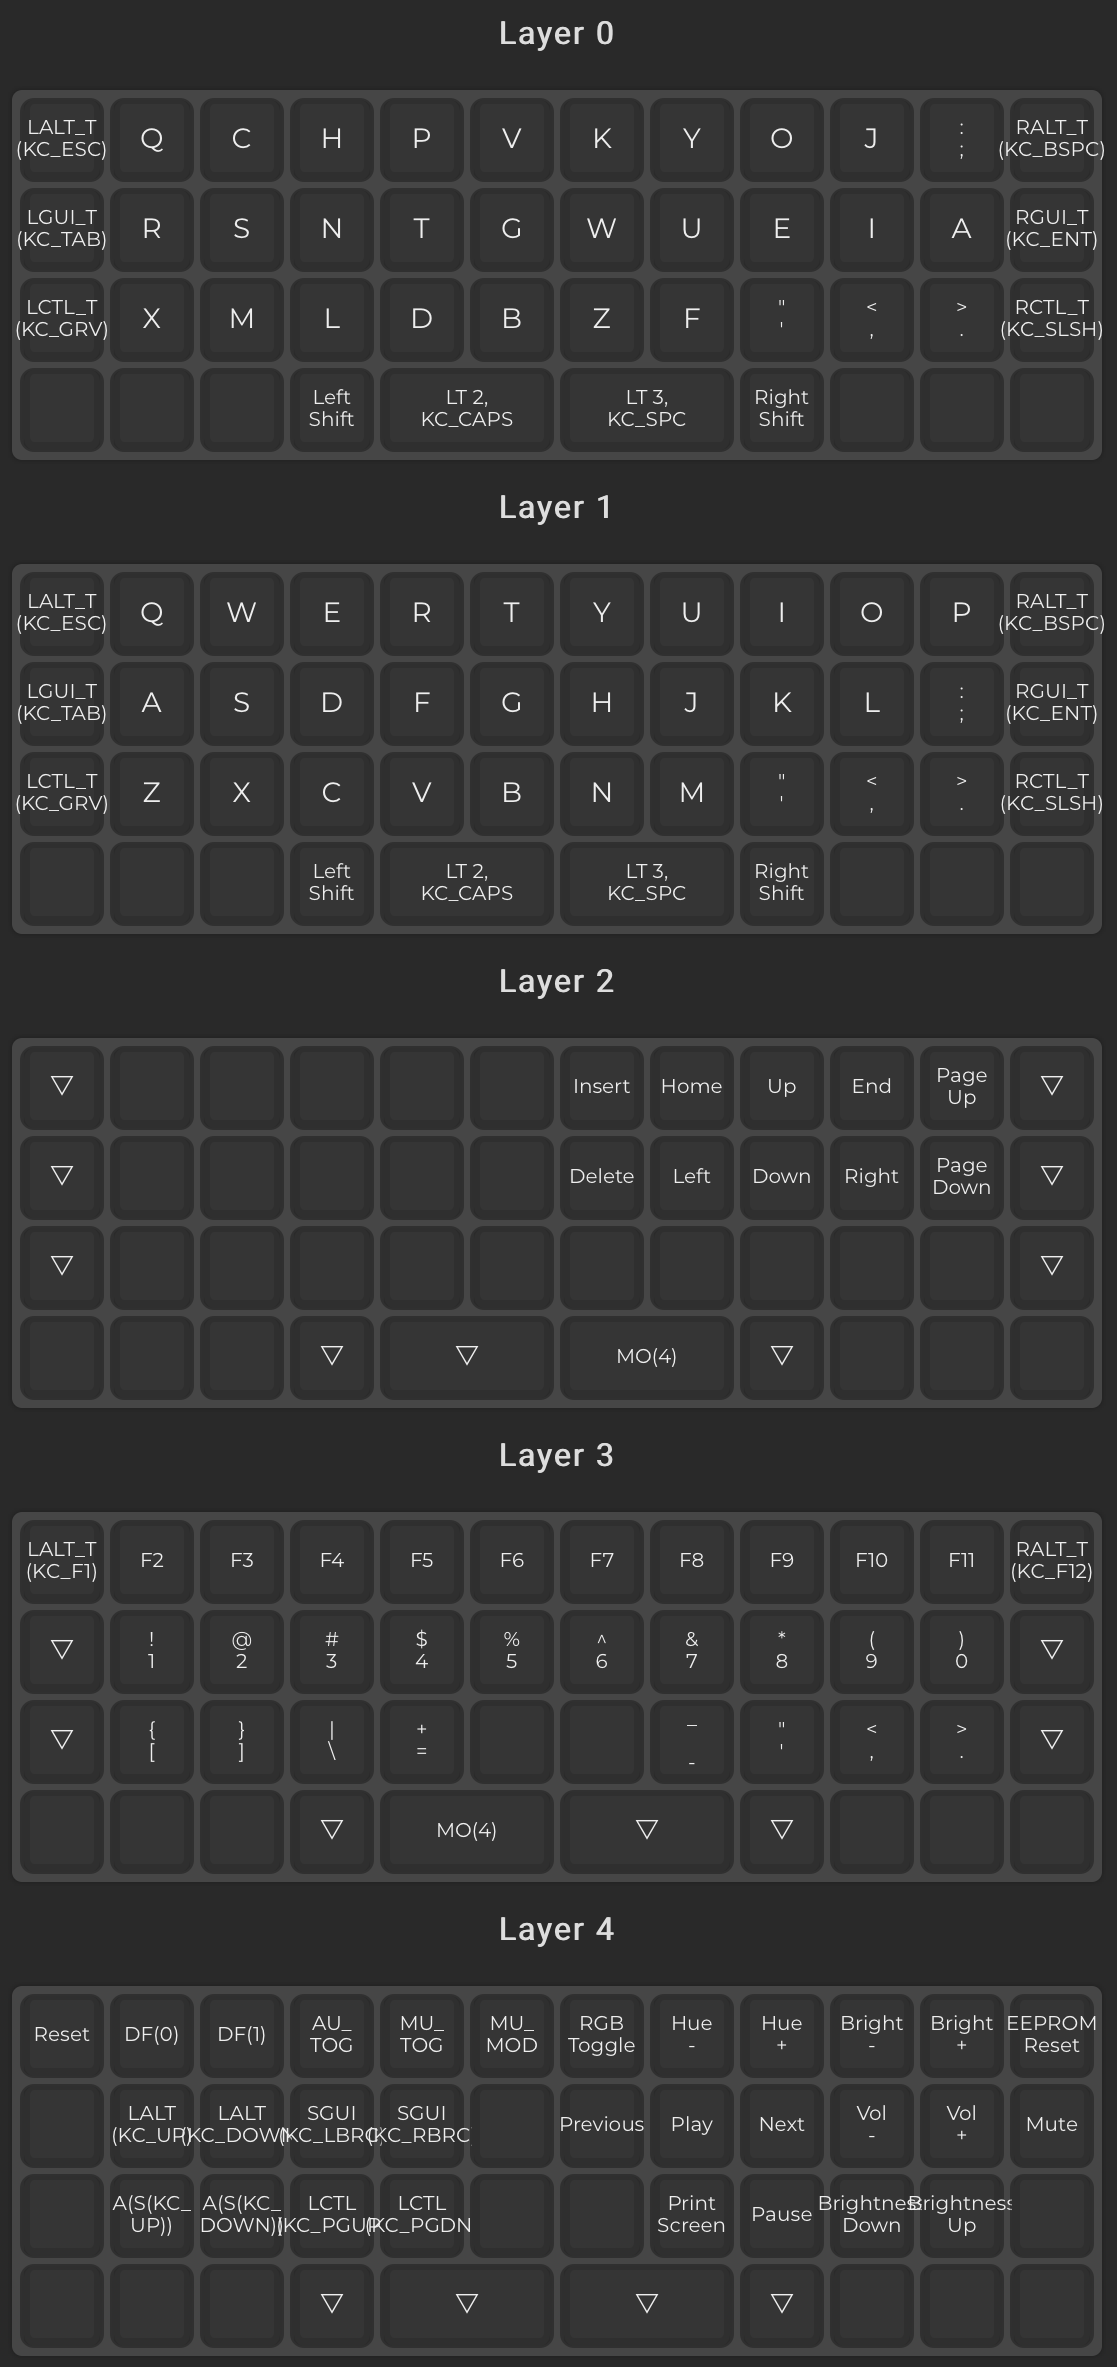
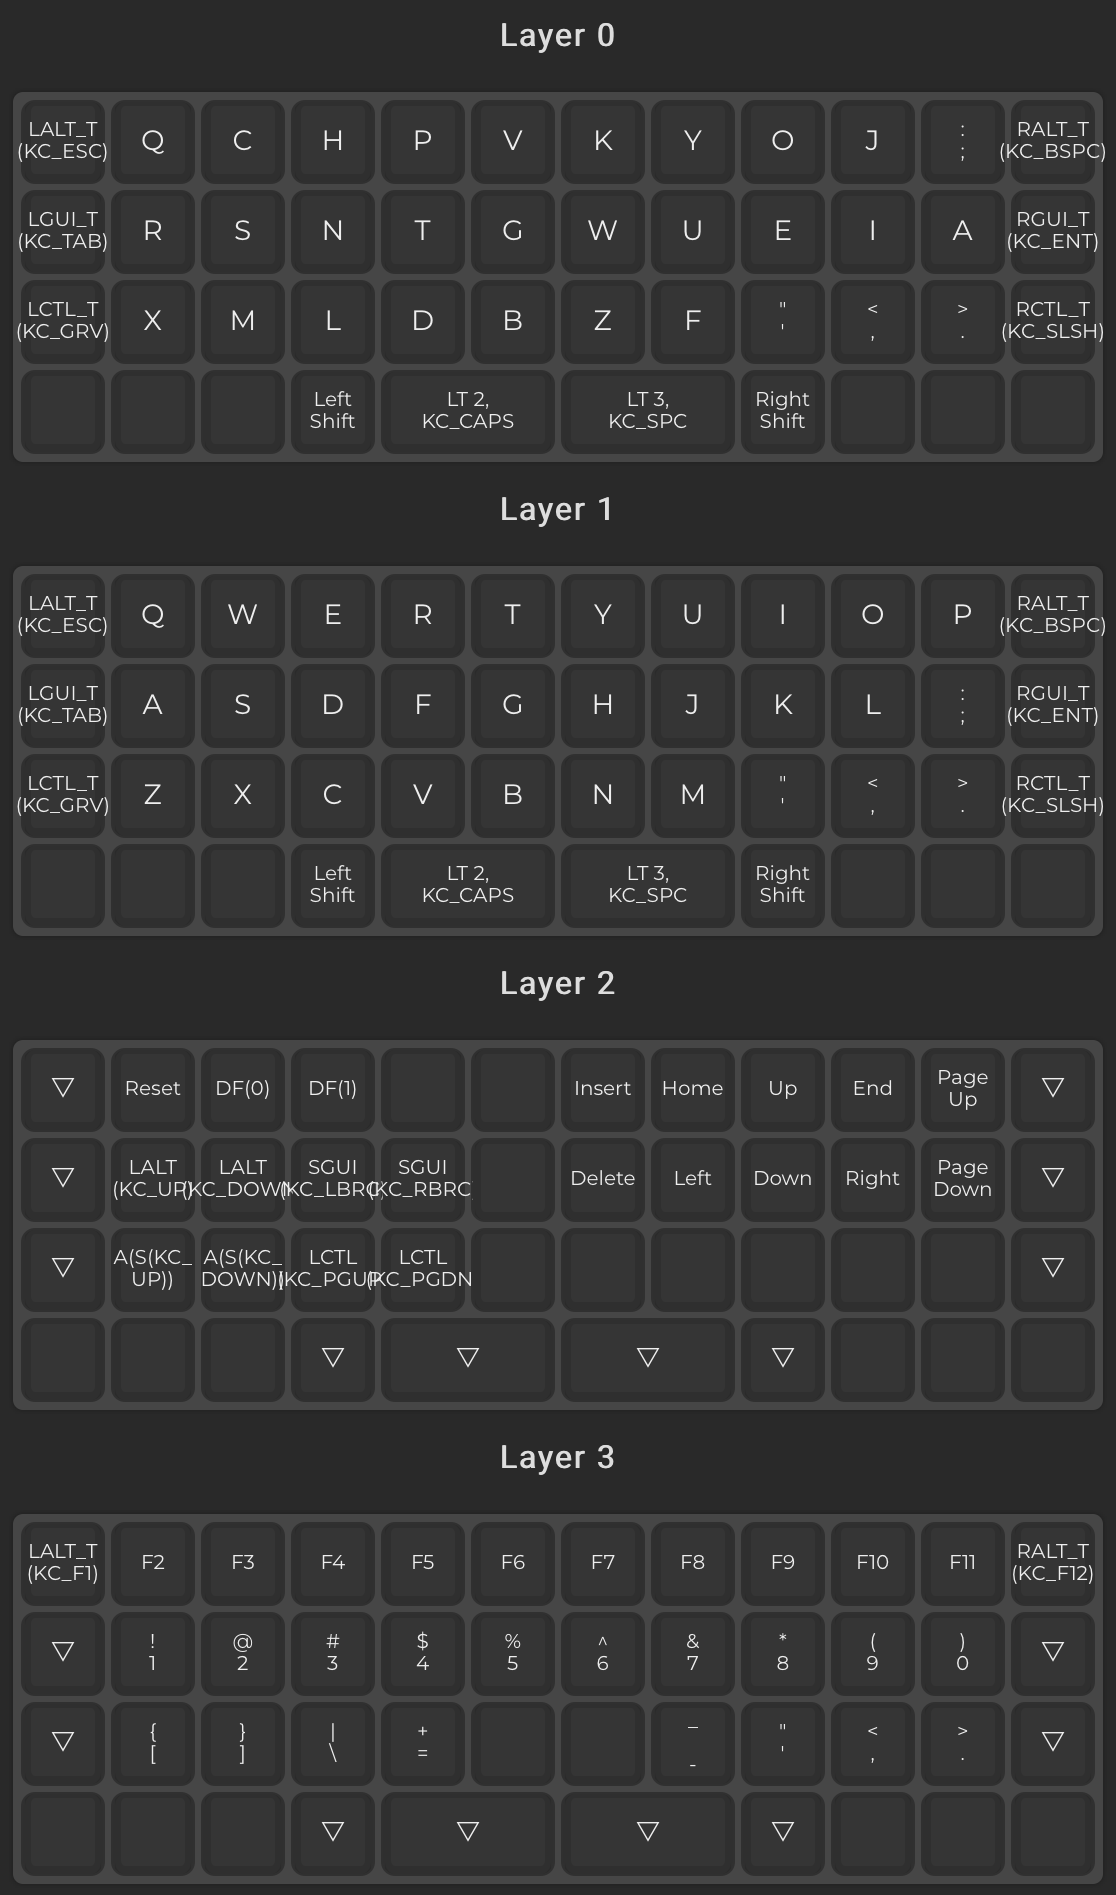
Collapse layers more

diff --git a/keymap.c b/keymap.c
@@ -9,7 +9,6 @@
 const uint16_t PROGMEM keymaps[][MATRIX_ROWS][MATRIX_COLS] = {
 	[0] = LAYOUT_planck_2x2u(LALT_T(KC_ESC), KC_Q, KC_C, KC_H, KC_P, KC_V, KC_K, KC_Y, KC_O, KC_J, KC_SCLN, RALT_T(KC_BSPC), LGUI_T(KC_TAB), KC_R, KC_S, KC_N, KC_T, KC_G, KC_W, KC_U, KC_E, KC_I, KC_A, RGUI_T(KC_ENT), LCTL_T(KC_GRV), KC_X, KC_M, KC_L, KC_D, KC_B, KC_Z, KC_F, KC_QUOT, KC_COMM, KC_DOT, RCTL_T(KC_SLSH), KC_NO, KC_NO, KC_NO, KC_LSFT, LT(2,KC_CAPS), LT(3,KC_SPC), KC_RSFT, KC_NO, KC_NO, KC_NO),
 	[1] = LAYOUT_planck_2x2u(LALT_T(KC_ESC), KC_Q, KC_W, KC_E, KC_R, KC_T, KC_Y, KC_U, KC_I, KC_O, KC_P, RALT_T(KC_BSPC), LGUI_T(KC_TAB), KC_A, KC_S, KC_D, KC_F, KC_G, KC_H, KC_J, KC_K, KC_L, KC_SCLN, RGUI_T(KC_ENT), LCTL_T(KC_GRV), KC_Z, KC_X, KC_C, KC_V, KC_B, KC_N, KC_M, KC_QUOT, KC_COMM, KC_DOT, RCTL_T(KC_SLSH), KC_NO, KC_NO, KC_NO, KC_LSFT, LT(2,KC_CAPS), LT(3,KC_SPC), KC_RSFT, KC_NO, KC_NO, KC_NO),
-	[2] = LAYOUT_planck_2x2u(KC_TRNS, KC_NO, KC_NO, KC_NO, KC_NO, KC_NO, KC_INS, KC_HOME, KC_UP, KC_END, KC_PGUP, KC_TRNS, KC_TRNS, KC_NO, KC_NO, KC_NO, KC_NO, KC_NO, KC_DEL, KC_LEFT, KC_DOWN, KC_RGHT, KC_PGDN, KC_TRNS, KC_TRNS, KC_NO, KC_NO, KC_NO, KC_NO, KC_NO, KC_NO, KC_NO, KC_NO, KC_NO, KC_NO, KC_TRNS, KC_NO, KC_NO, KC_NO, KC_TRNS, KC_TRNS, MO(4), KC_TRNS, KC_NO, KC_NO, KC_NO),
-	[3] = LAYOUT_planck_2x2u(LALT_T(KC_F1), KC_F2, KC_F3, KC_F4, KC_F5, KC_F6, KC_F7, KC_F8, KC_F9, KC_F10, KC_F11, RALT_T(KC_F12), KC_TRNS, KC_1, KC_2, KC_3, KC_4, KC_5, KC_6, KC_7, KC_8, KC_9, KC_0, KC_TRNS, KC_TRNS, KC_LBRC, KC_RBRC, KC_BSLS, KC_EQL, KC_NO, KC_NO, KC_MINS, KC_QUOT, KC_COMM, KC_DOT, KC_TRNS, KC_NO, KC_NO, KC_NO, KC_TRNS, MO(4), KC_TRNS, KC_TRNS, KC_NO, KC_NO, KC_NO),
-	[4] = LAYOUT_planck_2x2u(RESET, DF(0), DF(1), AU_TOG, MU_TOG, MU_MOD, RGB_TOG, RGB_HUD, RGB_HUI, RGB_VAD, RGB_VAI, EEP_RST, KC_NO, LALT(KC_UP), LALT(KC_DOWN), SGUI(KC_LBRC), SGUI(KC_RBRC), KC_NO, KC_MPRV, KC_MPLY, KC_MNXT, KC_VOLD, KC_VOLU, KC_MUTE, KC_NO, A(S(KC_UP)), A(S(KC_DOWN)), LCTL(KC_PGUP), LCTL(KC_PGDN), KC_NO, KC_NO, KC_PSCR, KC_PAUS, KC_BRID, KC_BRIU, KC_NO, KC_NO, KC_NO, KC_NO, KC_TRNS, KC_TRNS, KC_TRNS, KC_TRNS, KC_NO, KC_NO, KC_NO)
+	[2] = LAYOUT_planck_2x2u(KC_TRNS, RESET, DF(0), DF(1), KC_NO, KC_NO, KC_INS, KC_HOME, KC_UP, KC_END, KC_PGUP, KC_TRNS, KC_TRNS, LALT(KC_UP), LALT(KC_DOWN), SGUI(KC_LBRC), SGUI(KC_RBRC), KC_NO, KC_DEL, KC_LEFT, KC_DOWN, KC_RGHT, KC_PGDN, KC_TRNS, KC_TRNS, A(S(KC_UP)), A(S(KC_DOWN)), LCTL(KC_PGUP), LCTL(KC_PGDN), KC_NO, KC_NO, KC_NO, KC_NO, KC_NO, KC_NO, KC_TRNS, KC_NO, KC_NO, KC_NO, KC_TRNS, KC_TRNS, KC_TRNS, KC_TRNS, KC_NO, KC_NO, KC_NO),
+	[3] = LAYOUT_planck_2x2u(LALT_T(KC_F1), KC_F2, KC_F3, KC_F4, KC_F5, KC_F6, KC_F7, KC_F8, KC_F9, KC_F10, KC_F11, RALT_T(KC_F12), KC_TRNS, KC_1, KC_2, KC_3, KC_4, KC_5, KC_6, KC_7, KC_8, KC_9, KC_0, KC_TRNS, KC_TRNS, KC_LBRC, KC_RBRC, KC_BSLS, KC_EQL, KC_NO, KC_NO, KC_MINS, KC_QUOT, KC_COMM, KC_DOT, KC_TRNS, KC_NO, KC_NO, KC_NO, KC_TRNS, KC_TRNS, KC_TRNS, KC_TRNS, KC_NO, KC_NO, KC_NO)
 };
